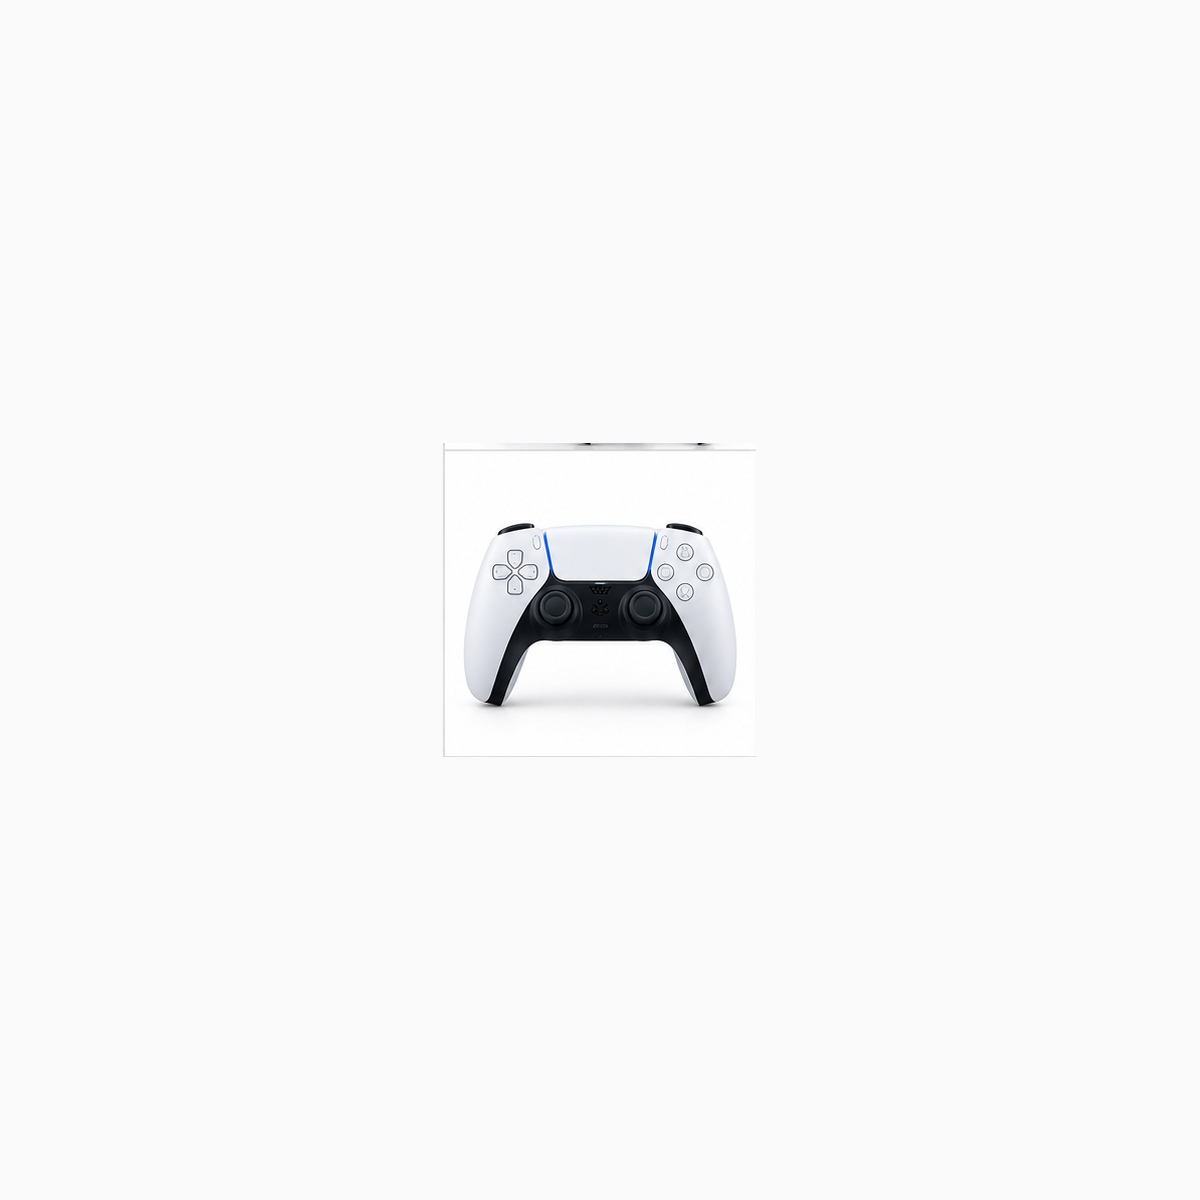
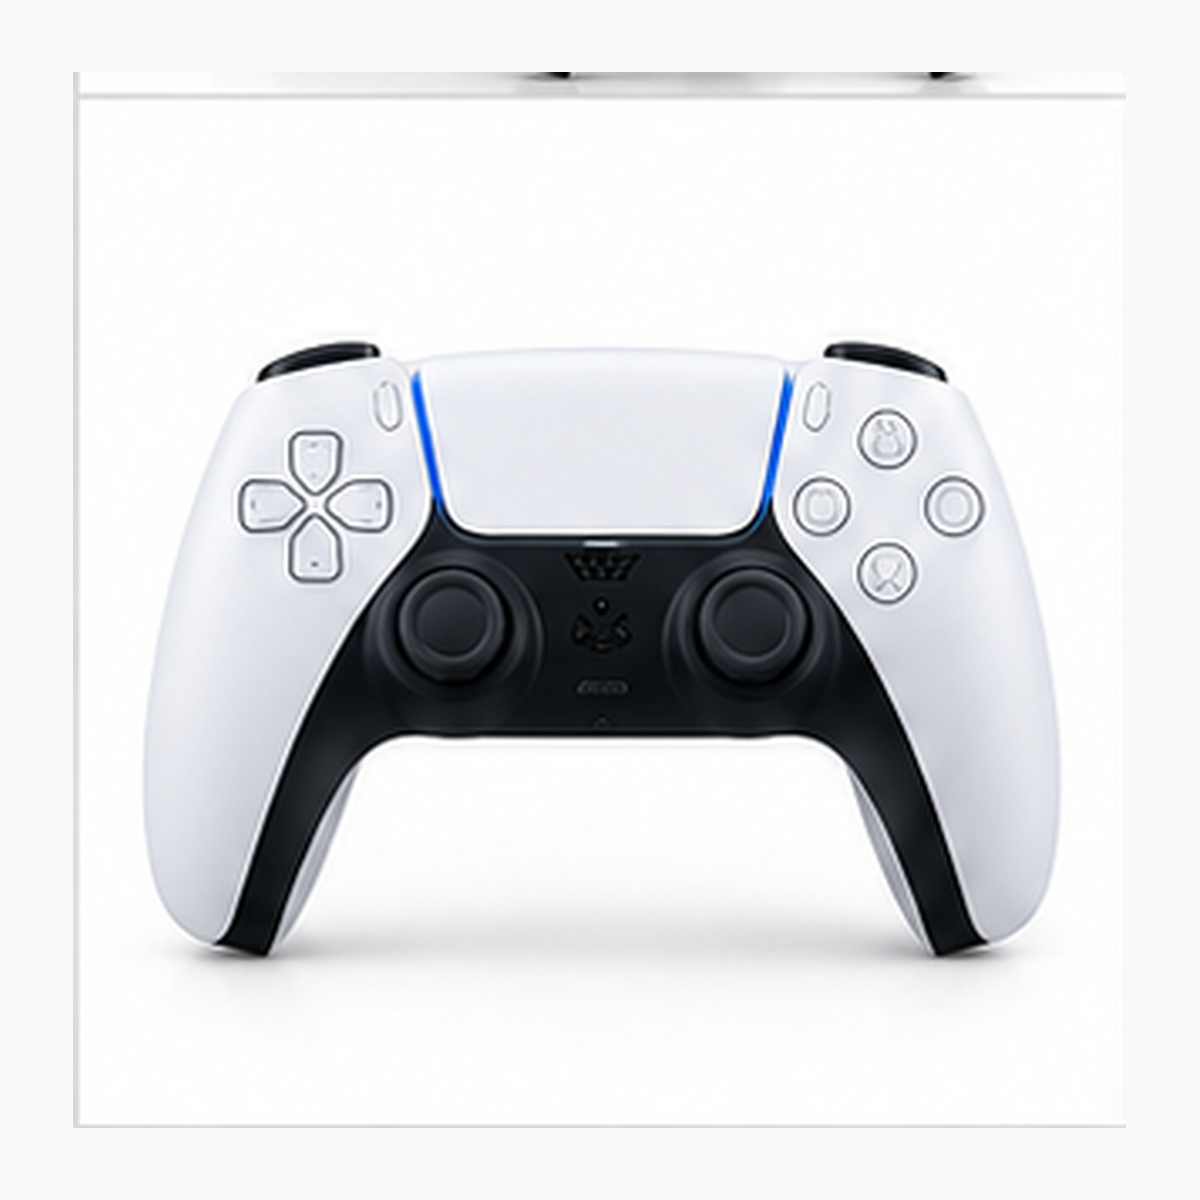
Add files via upload

diff --git a/style.css b/style.css
@@ -43,3 +43,37 @@
   background:#0e1827;
   padding:0 !important;
 }
+
+/* V3 FINAL PRODUCT IMAGE SYSTEM — one product per frame */
+.photo,.product-image{
+  width:100%;
+  aspect-ratio:1 / 1;
+  display:flex;
+  align-items:center;
+  justify-content:center;
+  overflow:hidden;
+  background:#f7f8fa;
+}
+.photo img,.product-image img{
+  width:100%;
+  height:100%;
+  display:block;
+  object-fit:contain !important;
+  object-position:center center !important;
+  padding:0 !important;
+}
+.cat img,.category-card img{
+  width:100%;
+  aspect-ratio:1 / 1;
+  height:auto;
+  display:block;
+  object-fit:contain !important;
+  object-position:center center !important;
+  background:#111c2d;
+  padding:0 !important;
+}
+
+/* V3 final image sizing: one complete product per square frame. */
+.photo,.product-image{aspect-ratio:1/1;display:flex;align-items:center;justify-content:center;overflow:hidden;background:#f6f7f9}
+.photo img,.product-image img{width:100%;height:100%;object-fit:contain !important;object-position:center !important;padding:0 !important}
+.cat img{aspect-ratio:1/1;width:100%;height:auto;object-fit:contain !important;object-position:center !important;padding:0 !important}

diff --git a/README.md b/README.md
@@ -22,3 +22,8 @@ Product specifications, compatibility, pricing, availability, warranties, polici
 ## V2 Image QA
 
 The catalog uses dedicated product-only photography assets. Each product asset is a true square 1200×1200 image, centered and displayed with `object-fit: contain`, so the full product remains visible without cropped UI, prices, ratings, buttons, navigation, or webpage screenshots.
+
+
+## V3 Image Reconstruction
+
+The catalog image library was rebuilt from clean product-only photography. Each product file contains exactly one gaming product, centered in a 1200×1200 square asset and presented with `object-fit: contain`; no webpage screenshots, prices, ratings, buttons, navigation, or mixed product cards are used as product photography.
